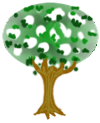
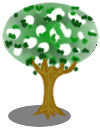
add shadows to graphics, couple of little tweaks
Former-commit-id: 76b4fdf28e24fe52f2e074ed58e9c70b48152b00

diff --git a/src/states/Game.js b/src/states/Game.js
@@ -147,6 +147,7 @@ export default class extends Phaser.State {
         { alpha: 0 }, 1500, Phaser.Easing.Default, true
       );
     });
+    this.zGroup.add(door);
 
     // create player
     this.player = this.game.add.sprite(320, 320);
@@ -351,7 +352,7 @@ export default class extends Phaser.State {
       if (!window.ld37.shiftSpaceUnderstood) {
         this.game.time.events.add(Phaser.Timer.SECOND * 0.5, () => {
           this.game.add.tween(this.player.shiftSpace).to(
-            { alpha: 0 }, 2000, Phaser.Easing.Default, true
+            { alpha: 0 }, 500, Phaser.Easing.Default, true
           );
         });
         window.ld37.shiftSpaceUnderstood = true;
@@ -626,6 +627,7 @@ export default class extends Phaser.State {
       this.scoreText.setStyle({ fill: "red" });
     }
     this.scoreText.text = `${this.score.toFixed(1)} sec`;
+    this.scoreText.setShadow(2, 2, 'rgba(0,0,0,0.5)', 5);
   }
 
   getScaleBetween(x, min, max) {

diff --git a/src/states/Room.js b/src/states/Room.js
@@ -59,7 +59,7 @@ export default class extends Phaser.State {
     if (this.lastScore !== null) {
       const scoreText = this.game.add.text(
         0, 640,
-        `Alone time on last outing: ${this.lastScore.toFixed(1)} seconds`,
+        ` Alone time on last outing: ${this.lastScore.toFixed(1)} seconds`,
         { fill: "white", size: "64px" }
       );
       scoreText.anchor.setTo(0, 1);
